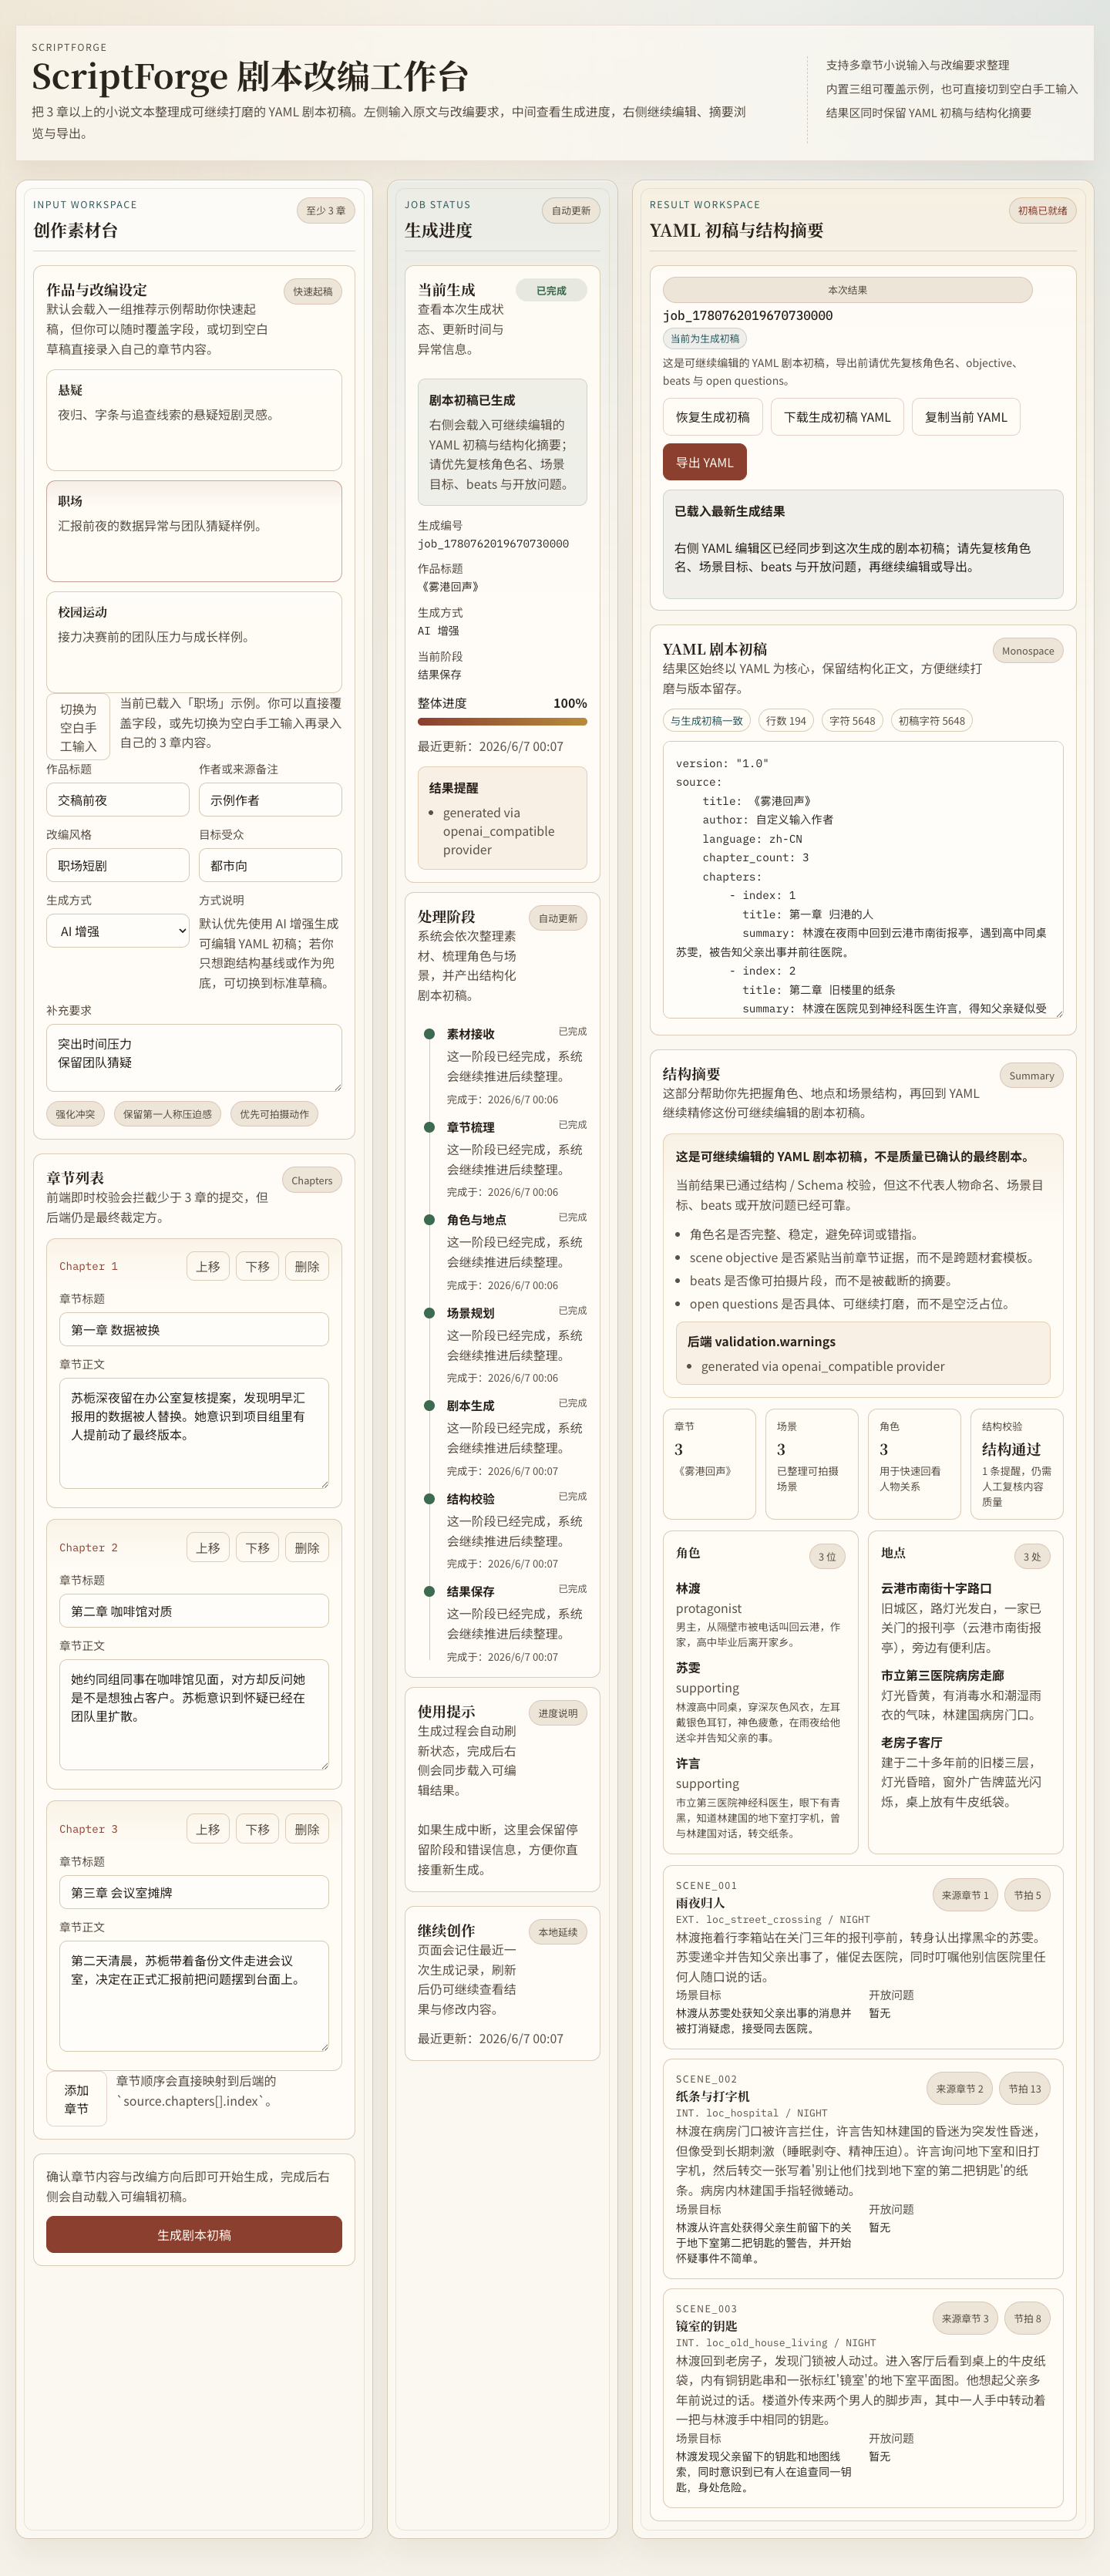
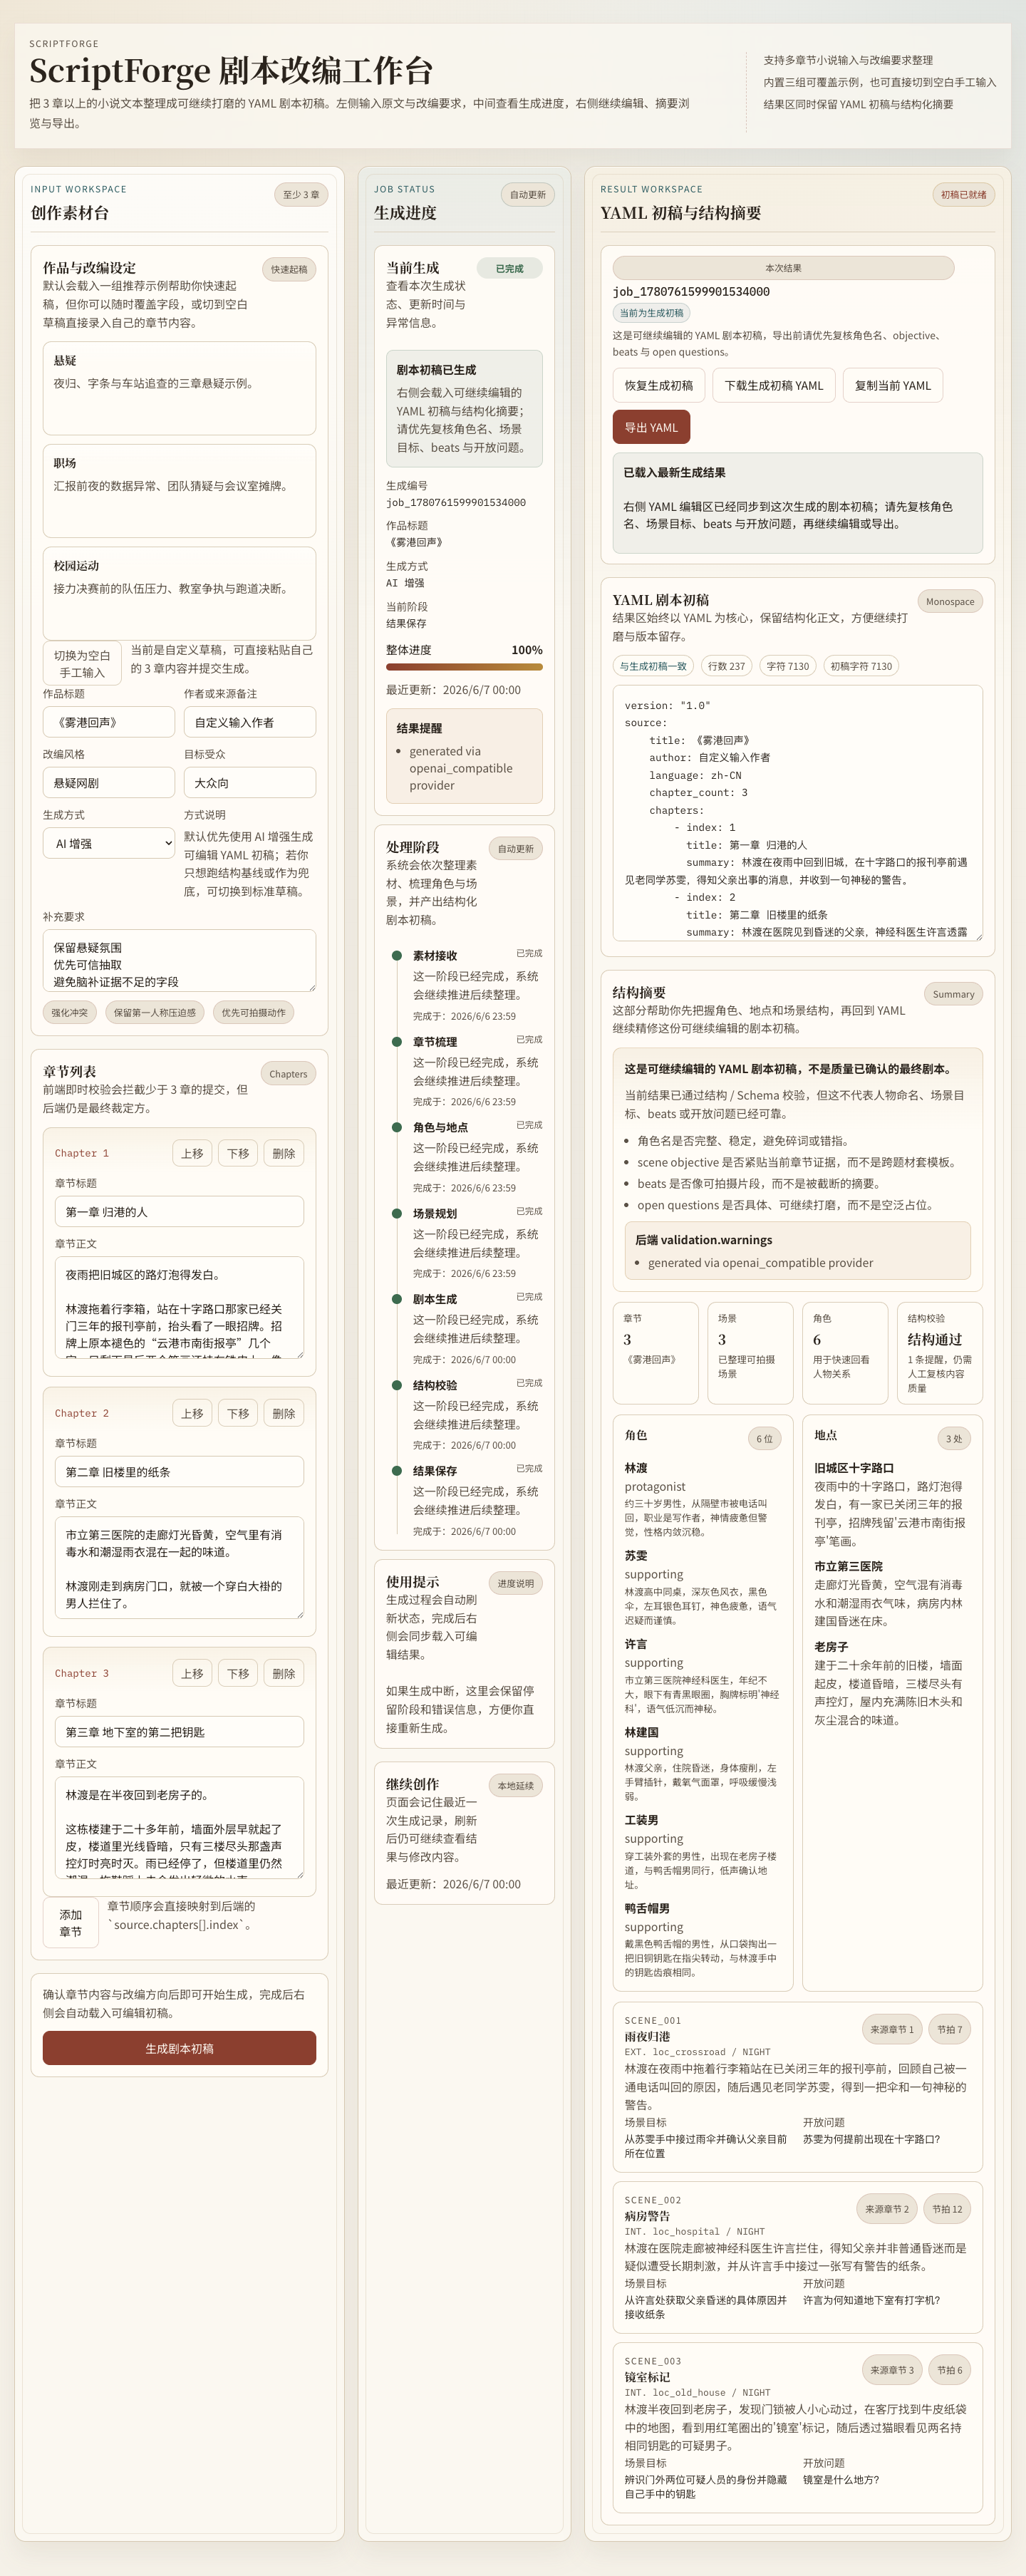
frontend: improve sample and screenshot fidelity

Changed region(s): [[0.0312, 0.0, 0.5312, 0.9027], [0.5625, 0.0, 0.9688, 0.9961], [0.4688, 0.0311, 0.5312, 0.0934]]

diff --git a/frontend/src/features/create-job/form.ts b/frontend/src/features/create-job/form.ts
@@ -46,7 +46,7 @@ export const workspaceSamplePresets: WorkspaceSamplePreset[] = [
   {
     id: "suspense",
     label: "悬疑",
-    description: "夜归、字条与追查线索的悬疑短剧灵感。",
+    description: "夜归、字条与车站追查的三章悬疑示例。",
     values: {
       title: "夜雨疑云",
       author: "示例作者",
@@ -58,17 +58,17 @@ export const workspaceSamplePresets: WorkspaceSamplePreset[] = [
         {
           title: "第一章 深夜回家",
           content:
-            "林琬深夜回到公寓，发现门锁似乎被人动过。她停在走廊里，不确定是否应该立刻进去。",
+            "夜里十一点，林琬拖着行李回到旧公寓，刚走到三楼就发现自家门锁有被人拧动过的细小刮痕。走廊尽头的声控灯忽明忽暗，她站在门前没有立刻进去，只先把耳朵贴近门板，确认屋里是不是还有人。\n\n门终于被她推开时，客厅里一切都像离开前那样整齐，只有茶几上的杯垫被人换了方向。林琬想起三天前失联的前室友，忽然怀疑对方回来过，却又找不到更直接的证据。",
         },
         {
           title: "第二章 陌生字条",
           content:
-            "她在房间里找到一张陌生字条，上面只写着今晚别睡。林琬意识到有人提前进入过房间。",
+            "她检查卧室和书桌时，在抽屉底层发现一张折得很小的字条，上面只写着四个字: 今晚别睡。纸角沾着雨水，像是不久前才被塞进来。\n\n林琬顺着字条往下查，发现衣柜后方的插座有被人拔插过的痕迹，而床头原本关着的旧收音机不知什么时候停在了凌晨两点十七分。她意识到闯入者不是随手翻动，而是在屋里找过某样特定的东西。",
         },
         {
           title: "第三章 清晨追查",
           content:
-            "第二天清晨，林琬带着字条前往车站，试图顺着纸上的线索找到寄信人。",
+            "天刚亮，林琬带着字条和收音机里的异常时间赶到南站。她记得前室友离开这座城时，就是在凌晨两点多从这里上车。\n\n车站值班窗口还没完全开门，她只能先去翻看寄存柜区域的监控提示牌，试着从字条笔迹和昨夜的闯入痕迹之间找联系。就在她准备拨通报警电话时，身后忽然有人低声叫出了她的名字。",
         },
       ],
     },
@@ -76,7 +76,7 @@ export const workspaceSamplePresets: WorkspaceSamplePreset[] = [
   {
     id: "workplace",
     label: "职场",
-    description: "汇报前夜的数据异常与团队猜疑样例。",
+    description: "汇报前夜的数据异常、团队猜疑与会议室摊牌。",
     recommended: true,
     values: {
       title: "交稿前夜",
@@ -89,17 +89,17 @@ export const workspaceSamplePresets: WorkspaceSamplePreset[] = [
         {
           title: "第一章 数据被换",
           content:
-            "苏栀深夜留在办公室复核提案，发现明早汇报用的数据被人替换。她意识到项目组里有人提前动了最终版本。",
+            "晚上十点半，苏栀一个人留在办公室复核第二天要向客户汇报的提案。她本来只是想再确认一遍预算页，却发现终稿里的核心数据被悄悄换成了两周前的旧版本，连图表颜色和注释顺序都被人刻意整理得像是她自己提交过的一样。\n\n她翻出本地备份后确认，问题只出现在共享盘上的最终文件。更麻烦的是，项目组里只有三个人有编辑权限，而明早九点客户就会带着法务一起到场。如果她现在直接发消息质问，只会提前惊动真正动手的人。",
         },
         {
           title: "第二章 咖啡馆对质",
           content:
-            "她约同组同事在咖啡馆见面，对方却反问她是不是想独占客户。苏栀意识到怀疑已经在团队里扩散。",
+            "第二天下午，苏栀把同组同事顾屿约到公司楼下的咖啡馆，想先确认是谁在项目组里放出了“她准备独占客户”的风声。顾屿没有正面回答，反而质问她这几天为什么一直单独和客户助理沟通，像是早就认定她会把责任推给别人。\n\n对话越说越僵，苏栀才意识到，数据被换只是表面问题，真正危险的是团队内部已经有人提前布好了怀疑链。她如果处理失误，明天的汇报现场就不会只是解释数据，而会变成一次公开甩锅。",
         },
         {
           title: "第三章 会议室摊牌",
           content:
-            "第二天清晨，苏栀带着备份文件走进会议室，决定在正式汇报前把问题摆到台面上。",
+            "第二天清晨八点四十，苏栀带着打印好的备份文件和修改记录提前走进会议室。客户还没到，项目负责人和顾屿已经坐在里面，桌上摆着那份被替换过数据的终稿。\n\n她原本只想在会前私下说明问题，但看到负责人试图直接开始彩排，她决定不再等下去，而是当场把版本记录投到屏幕上。无论最后责任落在谁身上，她都必须先把错误拦在正式汇报开始之前。",
         },
       ],
     },
@@ -107,7 +107,7 @@ export const workspaceSamplePresets: WorkspaceSamplePreset[] = [
   {
     id: "campus_relay",
     label: "校园运动",
-    description: "接力决赛前的团队压力与成长样例。",
+    description: "接力决赛前的队伍压力、教室争执与跑道决断。",
     values: {
       title: "最后一棒",
       author: "示例作者",
@@ -119,17 +119,17 @@ export const workspaceSamplePresets: WorkspaceSamplePreset[] = [
         {
           title: "第一章 操场加练",
           content:
-            "周宁晚上独自在操场加练接力，教练突然通知主力队友可能缺席决赛。她第一次意识到最后一棒会落到自己手里。",
+            "晚自习结束后，周宁独自在操场加练接棒。她原本只是队里的第三替补，却在最后一轮冲刺时被教练叫停，得知主力最后一棒扭伤脚踝，极有可能赶不上两天后的决赛。\n\n夜风一阵阵刮过看台，周宁拿着接力棒站在跑道尽头，第一次真正意识到自己可能要顶上最关键的位置。可她这学期一直跑得不稳，队里不少人都默认最后一棒不会轮到她。",
         },
         {
           title: "第二章 教室争执",
           content:
-            "第二天一早，她在教室里听见替补队友质疑战术安排，队伍差点在比赛前先吵散。周宁只能临时站出来稳住大家。",
+            "第二天一早，周宁刚走进教室，就听见两名队友在后排争论战术安排。有人觉得应该临时换人，有人认为干脆放弃争冠保住名次，连一向最稳的第二棒都开始怀疑现在的排兵是不是在赌运气。\n\n争执很快从谁跑最后一棒，升级成谁该为前几场失利负责。周宁原本想装作没听见，可当大家把目光投向她时，她知道自己再沉默下去，队伍可能会在上赛道前就先散掉。",
         },
         {
           title: "第三章 跑道起跑",
           content:
-            "比赛当天清晨，周宁站上跑道，决定不再等待主力归队，而是带着现有阵容把接力跑完。",
+            "比赛当天清晨，周宁和队友站上跑道热身时，主力最后一棒仍然没有出现。看台上的广播已经开始报项目顺序，教练只能把最终名单交上去，不再给任何人留下犹豫的时间。\n\n周宁接过号码贴时手心全是汗。她知道这场比赛未必能跑赢最强的对手，但如果她还在等主力归队，队伍就连正常起跑都做不到。她决定带着现有阵容把这场接力完整跑完，哪怕最后一棒必须由她来扛。",
         },
       ],
     },